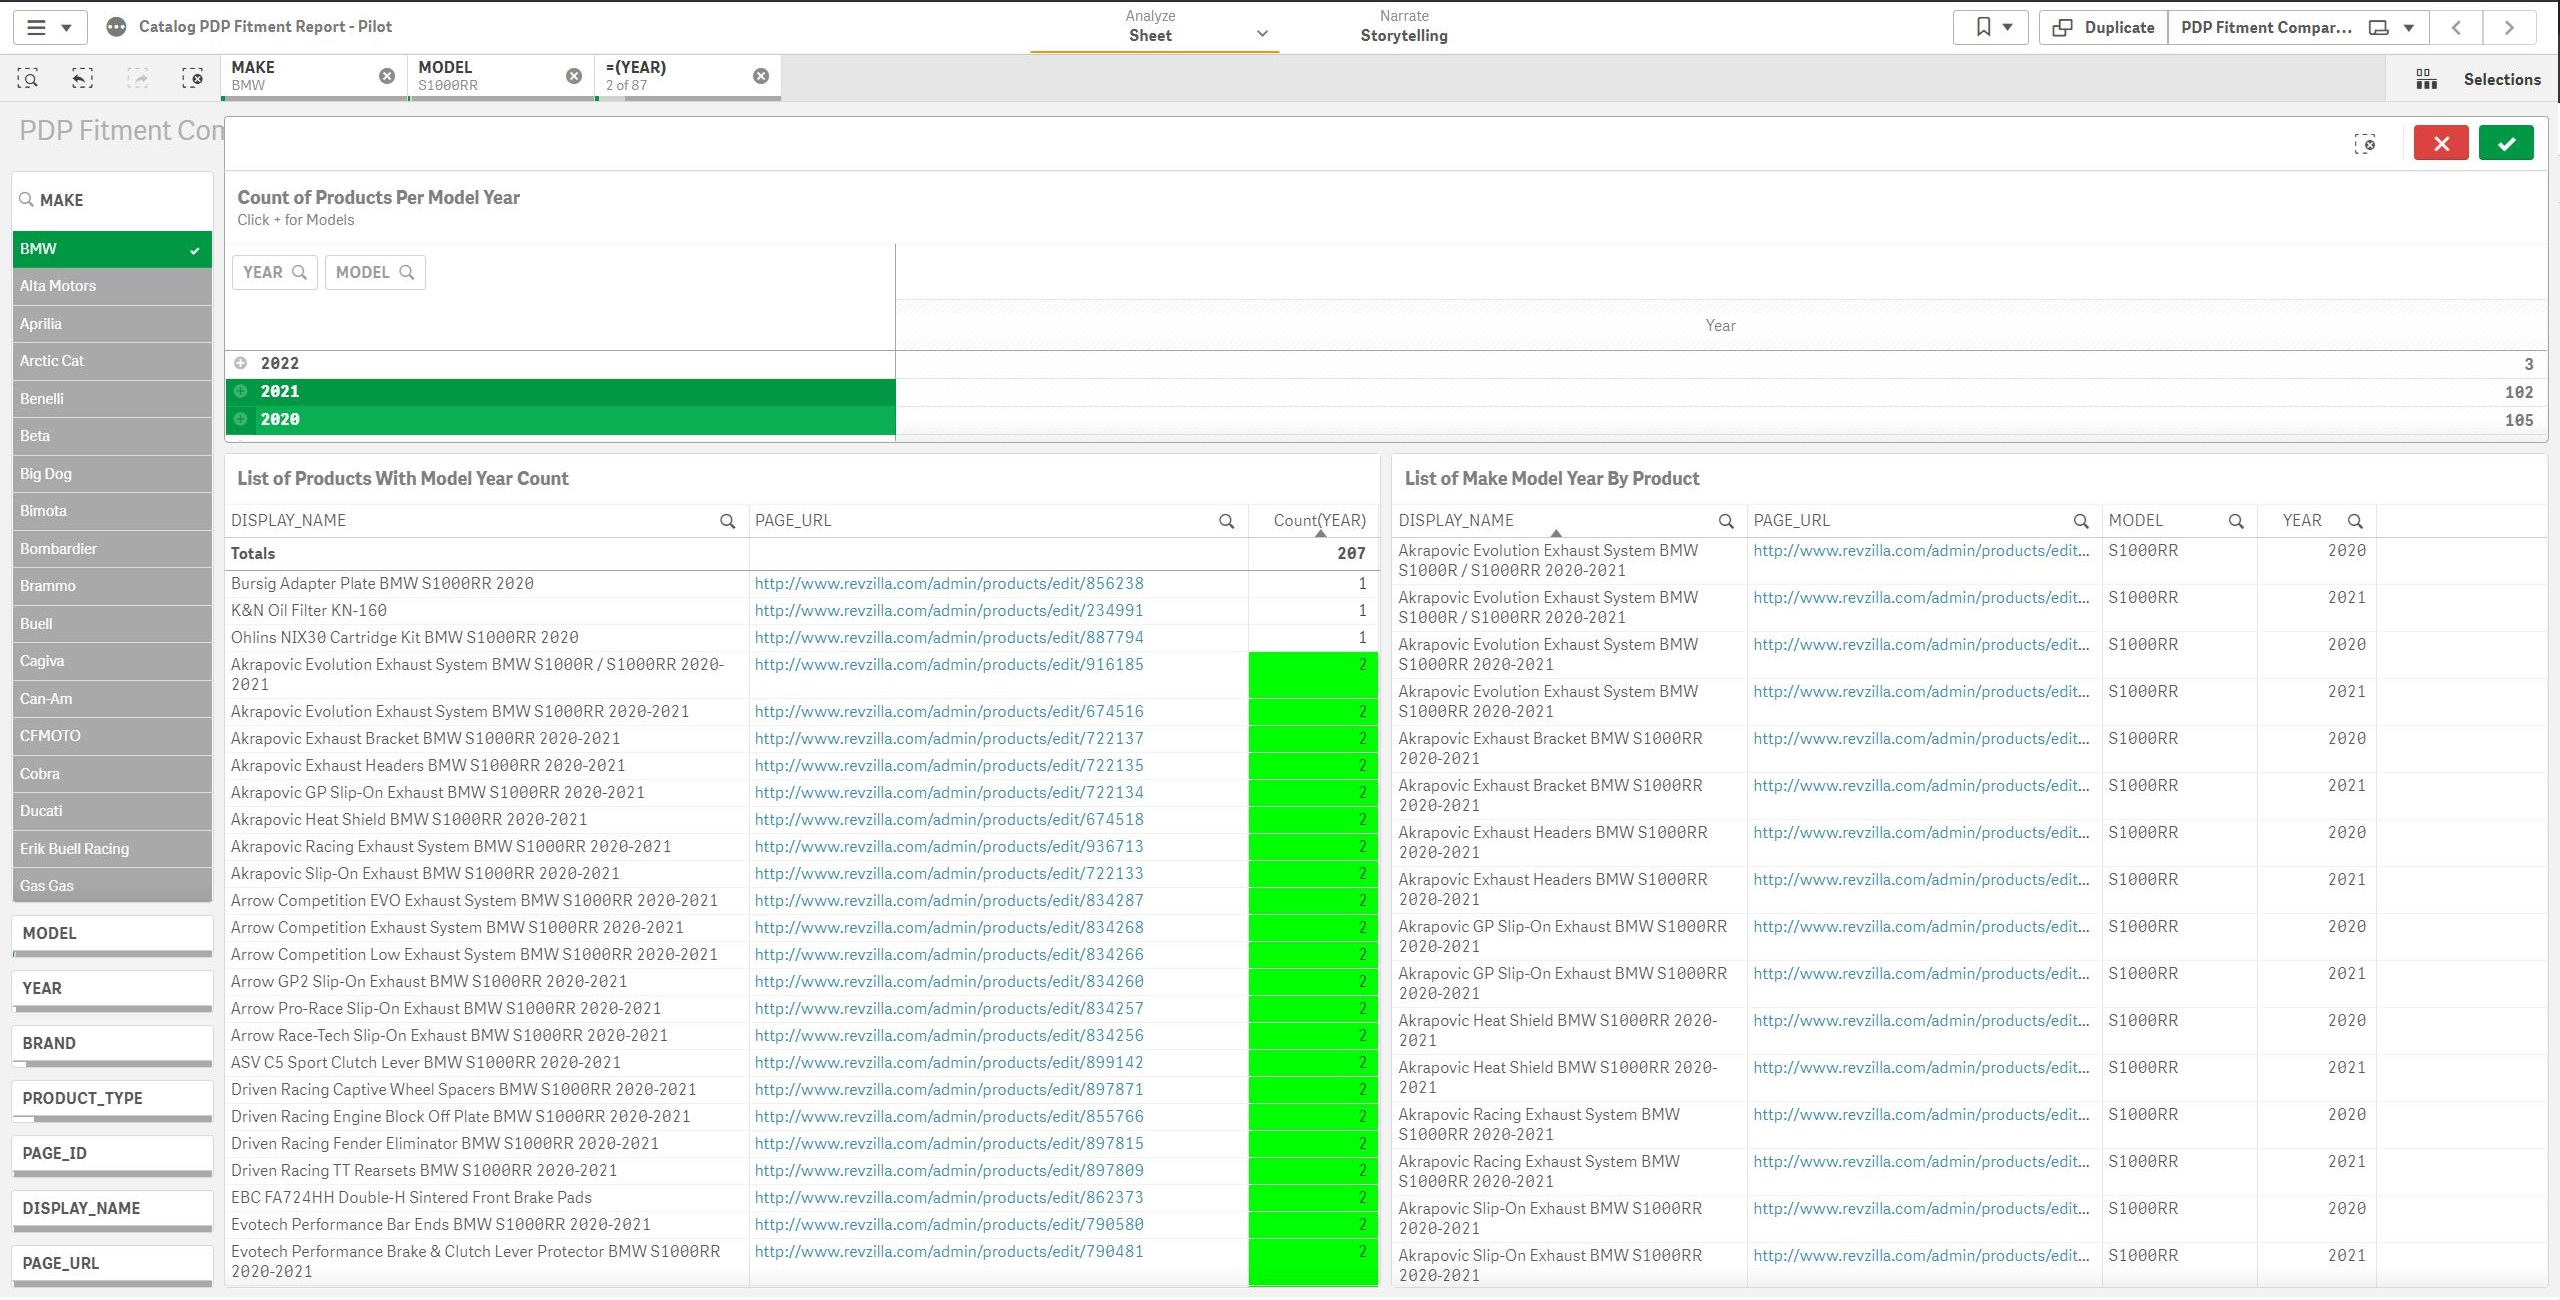
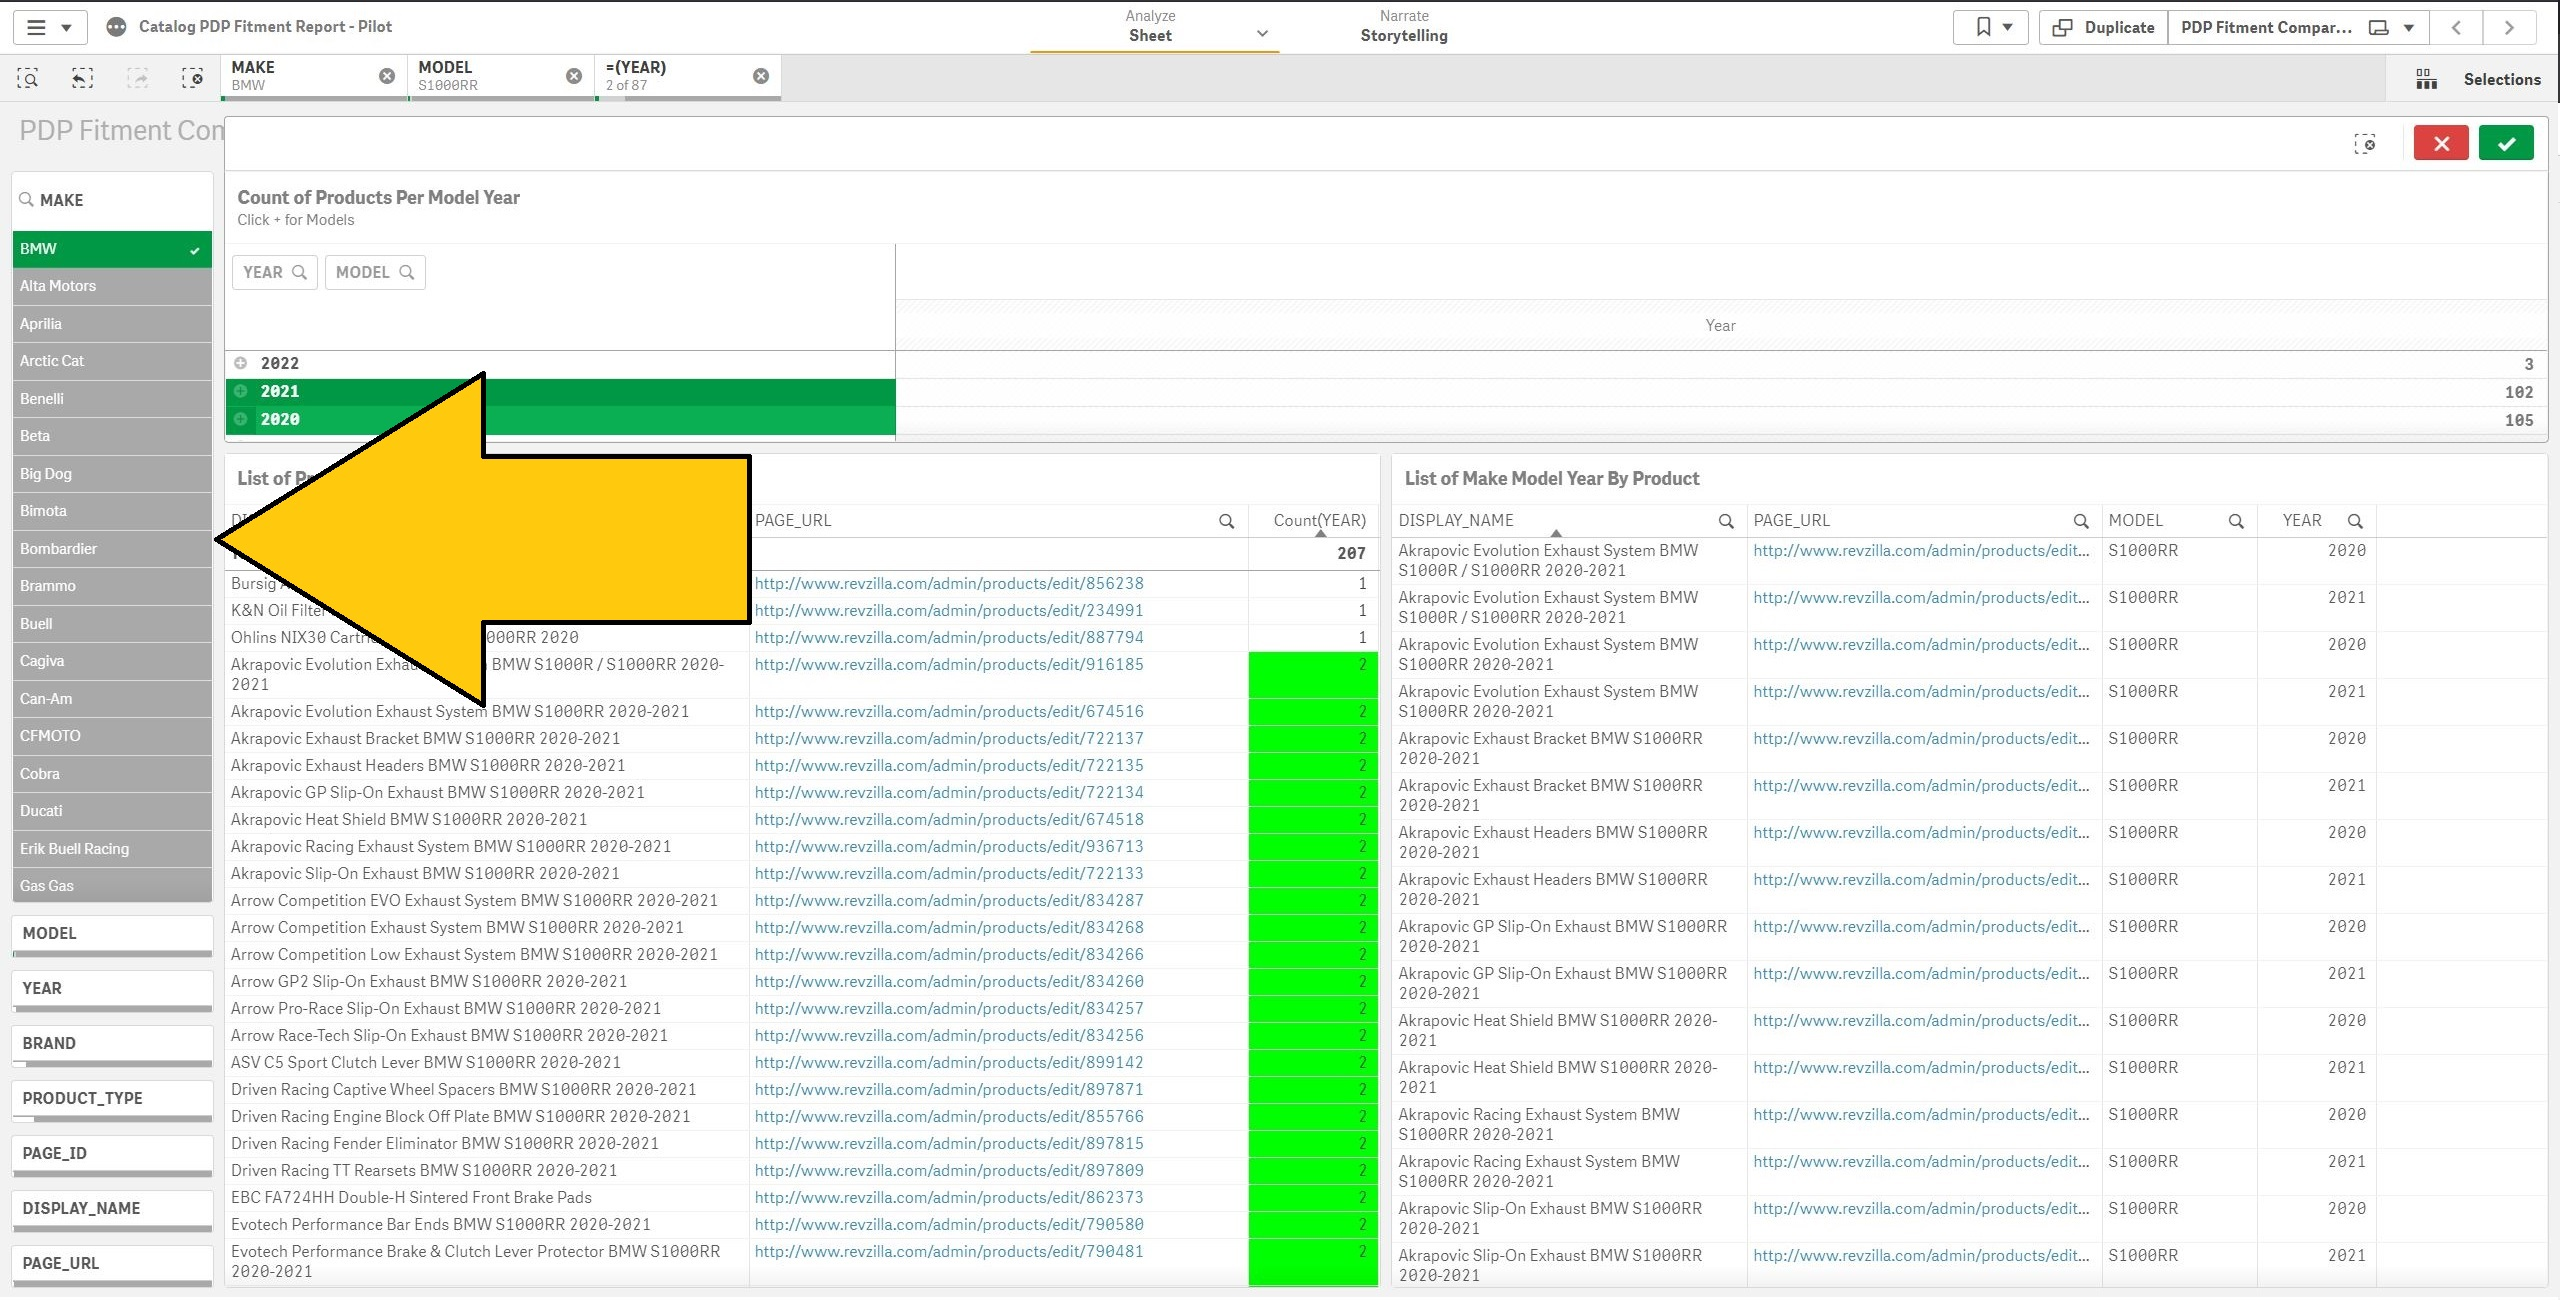
Completed v1.0 of qlik fitment dashboard page

Changed region(s): [[0.0625, 0.2769, 0.3125, 0.5538]]

diff --git a/fcpeuro-fitment-research.html b/fcpeuro-fitment-research.html
@@ -4,10 +4,10 @@
 	html5up.net | @ajlkn
 	Free for personal and commercial use under the CCA 3.0 license (html5up.net/license)
 -->
-<a name="Qlik Fitment Dashoard"></a>
+<a name="Qlik Fitment Dashoard README"></a>
 <html>
 	<head>
-		<title>Qlik Fitment Dashoard</title>
+		<title>Qlik Fitment Dashoard README</title>
 		<meta charset="utf-8" />
 		<meta name="viewport" content="width=device-width, initial-scale=1, user-scalable=no" />
 		<link rel="stylesheet" href="assets/css/main.css" />
@@ -55,15 +55,15 @@
 							</header>
 							<section class="tiles">
 												<p style="text-align: center;">
-													The goal of the Qlik Fitment Dashoard is to create a list of product pages that require an audit for their fitment. Due to the product library outgrowing the company's PIMS (Product Information Management System) capacity, it was not longer scalable to reply on the PIMS system to reliablily filter for products and/or fitment.
+													The goal of the Qlik Fitment Dashoard is to Lorem ipsum.
 												</p>
 									<span class="image main">
-										<a href="images/qlik-fitment-dashboard-2.JPG">
-											<img src="images/qlik-fitment-dashboard-2.JPG" alt="" class="center-image" />
+										<a href="images/qlik-fitment-dashboard-1.JPG">
+											<img src="images/qlik-fitment-dashboard-1.JPG" alt="" class="center-image" />
 										</a>
 									</span>
 												<ul>
-													<li><b>This dashboard includes filterable attributes such as:</b>
+													<li><b>Lorem ipsum dolor sit amet, consectetur adipiscing elit, sed do eiusmod tempor incididunt ut labore et dolore magna aliqua. Ut enim ad minim veniam, quis nostrud exercitation ullamco laboris nisi ut aliquip ex ea commodo consequat. </b>
 														<ul>
 																<li>Make</li>
 																<li>Model</li>
@@ -77,47 +77,16 @@
 													</li>
 								<hr style="border: none; height: 2px; background-color: #000000; width: 100%; margin-top: 20px; margin-bottom: 50px;">
 									<span class="image main">
-										<a href="images/qlik-fitment-dashboard-3.JPG">
-											<img src="images/qlik-fitment-dashboard-3.JPG" alt="" class="center-image" />
+										<a href="images/product_catalog_excel_clean.JPG">
+											<img src="images/product_catalog_excel_clean.JPG" alt="" class="center-image" />
 										</a>
 									</span>
-													<li><b>In this example we have filtered by:</b>
+													<li><b>By selecting BMW, S1000RR, 2020 OR 2021. The result is table with the count of years (Count(YEAR)). We must confident that 2020 and 2021 shares nearly to all of the same parts. If a page has only 1 year, then it requires an audit.</b>
 														<ul>
-															<li>Make - BMW</li>
-															<li>Model - S1000RR</li>
-															<li>Year - 2020 &  2021</li>
-
+															<li>Lorem ipsum</li>
 														</ul>
 													</li>
 								<hr style="border: none; height: 2px; background-color: #000000; width: 100%; margin-top: 20px; margin-bottom: 50px;">				
-								
-								<span class="image main">
-										<a href="images/qlik-fitment-dashboard-5.JPG">
-											<img src="images/qlik-fitment-dashboard-5.JPG" alt="" class="center-image" />
-										</a>
-									</span>
-													<li><b>The result(s) on the left table are product page name, page url, and a count of the filtered make, model, year(s) that live on each page.</b>
-														<ul>
-															<li>Note: The descisions listed below are under the presumption that all parts from the 2020 model year carry over into 2021 model year.</li>
-															<li>If there is the number 2 displayed in green. This means the product page requires no audit</li>
-															<li>If there is the number 1 displayed. This means the product page DOES require an audit</li>
-															<li>The dashboard links directly to the back end of the each product page to run said audit(s)</li>
-														</ul>
-													</li>
-								<hr style="border: none; height: 2px; background-color: #000000; width: 100%; margin-top: 20px; margin-bottom: 50px;">			
-		
-								<span class="image main">
-										<a href="images/qlik-fitment-dashboard-6.JPG">
-											<img src="images/qlik-fitment-dashboard-6.JPG" alt="" class="center-image" />
-										</a>
-									</span>
-													<li><b>The result(s) on the right table displays each model(s) and year(s) that live on each page.</b>
-														<ul>
-															<li>It will filter down in real time based on the product page selected from the left table</li>
-															<li>This table is best utilized when auditing a single product page for a single make but multiple models and years.</li>
-														</ul>
-													</li>
-								<hr style="border: none; height: 2px; background-color: #000000; width: 100%; margin-top: 20px; margin-bottom: 50px;">			
 									</p>
 							</section>
 						</div>

diff --git a/qlik-fitment-dashboard.html b/qlik-fitment-dashboard.html
@@ -4,10 +4,10 @@
 	html5up.net | @ajlkn
 	Free for personal and commercial use under the CCA 3.0 license (html5up.net/license)
 -->
-<a name="Qlik Fitment Dashoard"></a>
+<a name="Qlik Fitment Dashoard README"></a>
 <html>
 	<head>
-		<title>Qlik Fitment Dashoard</title>
+		<title>Qlik Fitment Dashoard README</title>
 		<meta charset="utf-8" />
 		<meta name="viewport" content="width=device-width, initial-scale=1, user-scalable=no" />
 		<link rel="stylesheet" href="assets/css/main.css" />
@@ -126,7 +126,6 @@
 				<!-- Footer -->
 					<footer id="footer">
 						<div class="inner" style="text-align: left;">
-							
 							<section>
 								<h2>Contact Me!</h2>
 								<ul class="icons">
@@ -138,7 +137,7 @@
 							</section>
 							<ul class="copyright">
 								<li>&copy; All rights reserved</li><li>Design: <a href="http://html5up.net">HTML5 UP</a></li>
-							</ul>
+							</ul
 						</div>
 					</footer>
 
@@ -153,3 +152,5 @@
 
 	</body>
 </html>
+
+BMW, S1000RR, 2020 and 2021. the result is table with the count of years (Count(YEAR)). We must confident that 2020 and 2021 shares nearly to all of the same parts. If a page has only 1 year, then it requires an audit.
